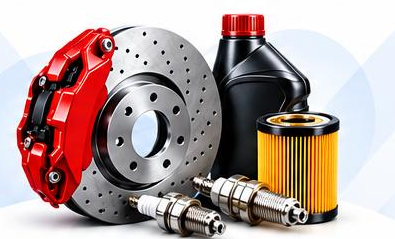
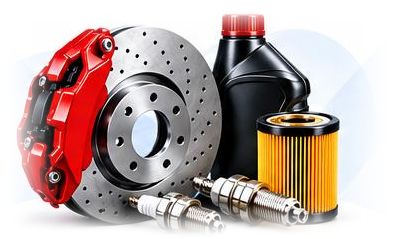
Mobile: 13/15 actions clear of the frame edge, feathered 02 hero art, capture logs real button bounds

diff --git a/src/screens/CheckoutScreen.tsx b/src/screens/CheckoutScreen.tsx
@@ -51,7 +51,7 @@ export function CheckoutScreen({ c }: { c: any }) {
         {groups.map((g) => (
           <Card key={g.shopId} className="p-1.5 mb-1">
             <View className="flex-row items-center justify-end mb-0.5"><Text className="font-extrabold ml-2">{g.name}</Text><View className="w-7 h-7 rounded-lg bg-accent items-center justify-center"><Ico n="shop" size={16} color="#fff" /></View></View>
-            <View className="flex-row mb-0.5" style={{ gap: 6 }}>{g.items.slice(0, 4).map((i: any) => <Image key={i.offerId} source={thumb(i.image)} style={{ width: "23.5%", height: 54, resizeMode: "contain", backgroundColor: "#f3eee8", borderRadius: 8 }} />)}</View>
+            <View className="flex-row mb-0.5" style={{ gap: 6 }}>{g.items.slice(0, 4).map((i: any) => <Image key={i.offerId} source={thumb(i.image)} style={{ width: "23.5%", height: 36, resizeMode: "contain", backgroundColor: "#f3eee8", borderRadius: 8 }} />)}</View>
             <View className="flex-row items-center bg-brand-light rounded-xl px-2" style={{ paddingVertical: 0 }}><Text className="text-slate-400 text-xl">‹</Text><View className="flex-1 mx-2 items-end"><Text className="font-bold">خيارات التوصيل</Text><Text className="text-slate-500 text-xs">{quote ? "محسوب حسب المنطقة" : "تحدد بعد اختيار المنطقة"}</Text></View><Ico n="truck" size={22} /></View>
           </Card>
         ))}

diff --git a/src/screens/PlacedScreen.tsx b/src/screens/PlacedScreen.tsx
@@ -11,7 +11,7 @@ export function PlacedScreen({ c }: { c: any }) {
     <View className="bg-white flex-1" style={{ minHeight: 760 }}>
       <Header title="تم استلام طلبك" back onBack={() => setScreen("home")} />
       <View className="p-3">
-        <View style={{ width: "100%", height: 200, overflow: "hidden" }}><Image source={require("../../assets/ref/confirm.png")} style={{ width: "100%", height: 205, resizeMode: "contain" }} /></View>
+        <View style={{ width: "100%", height: 176, overflow: "hidden" }}><Image source={require("../../assets/ref/confirm.png")} style={{ width: "100%", height: 180, resizeMode: "contain" }} /></View>
         <Text className="text-2xl font-extrabold text-center mt-1">تم استلام طلبك</Text>
         <Text className="text-accent text-lg font-extrabold text-center">طلب تجريبي</Text>
         <Text className="text-center text-slate-600 mt-1">رقم الطلب: {(() => { const mine = orders.filter((x: any) => x.checkoutId === lastPlacedOrder.id); return mine.length ? mine.map((x: any) => x.id.slice(0, 8)).join(" ، ") : lastPlacedOrder.id.slice(0, 8); })()}</Text>
